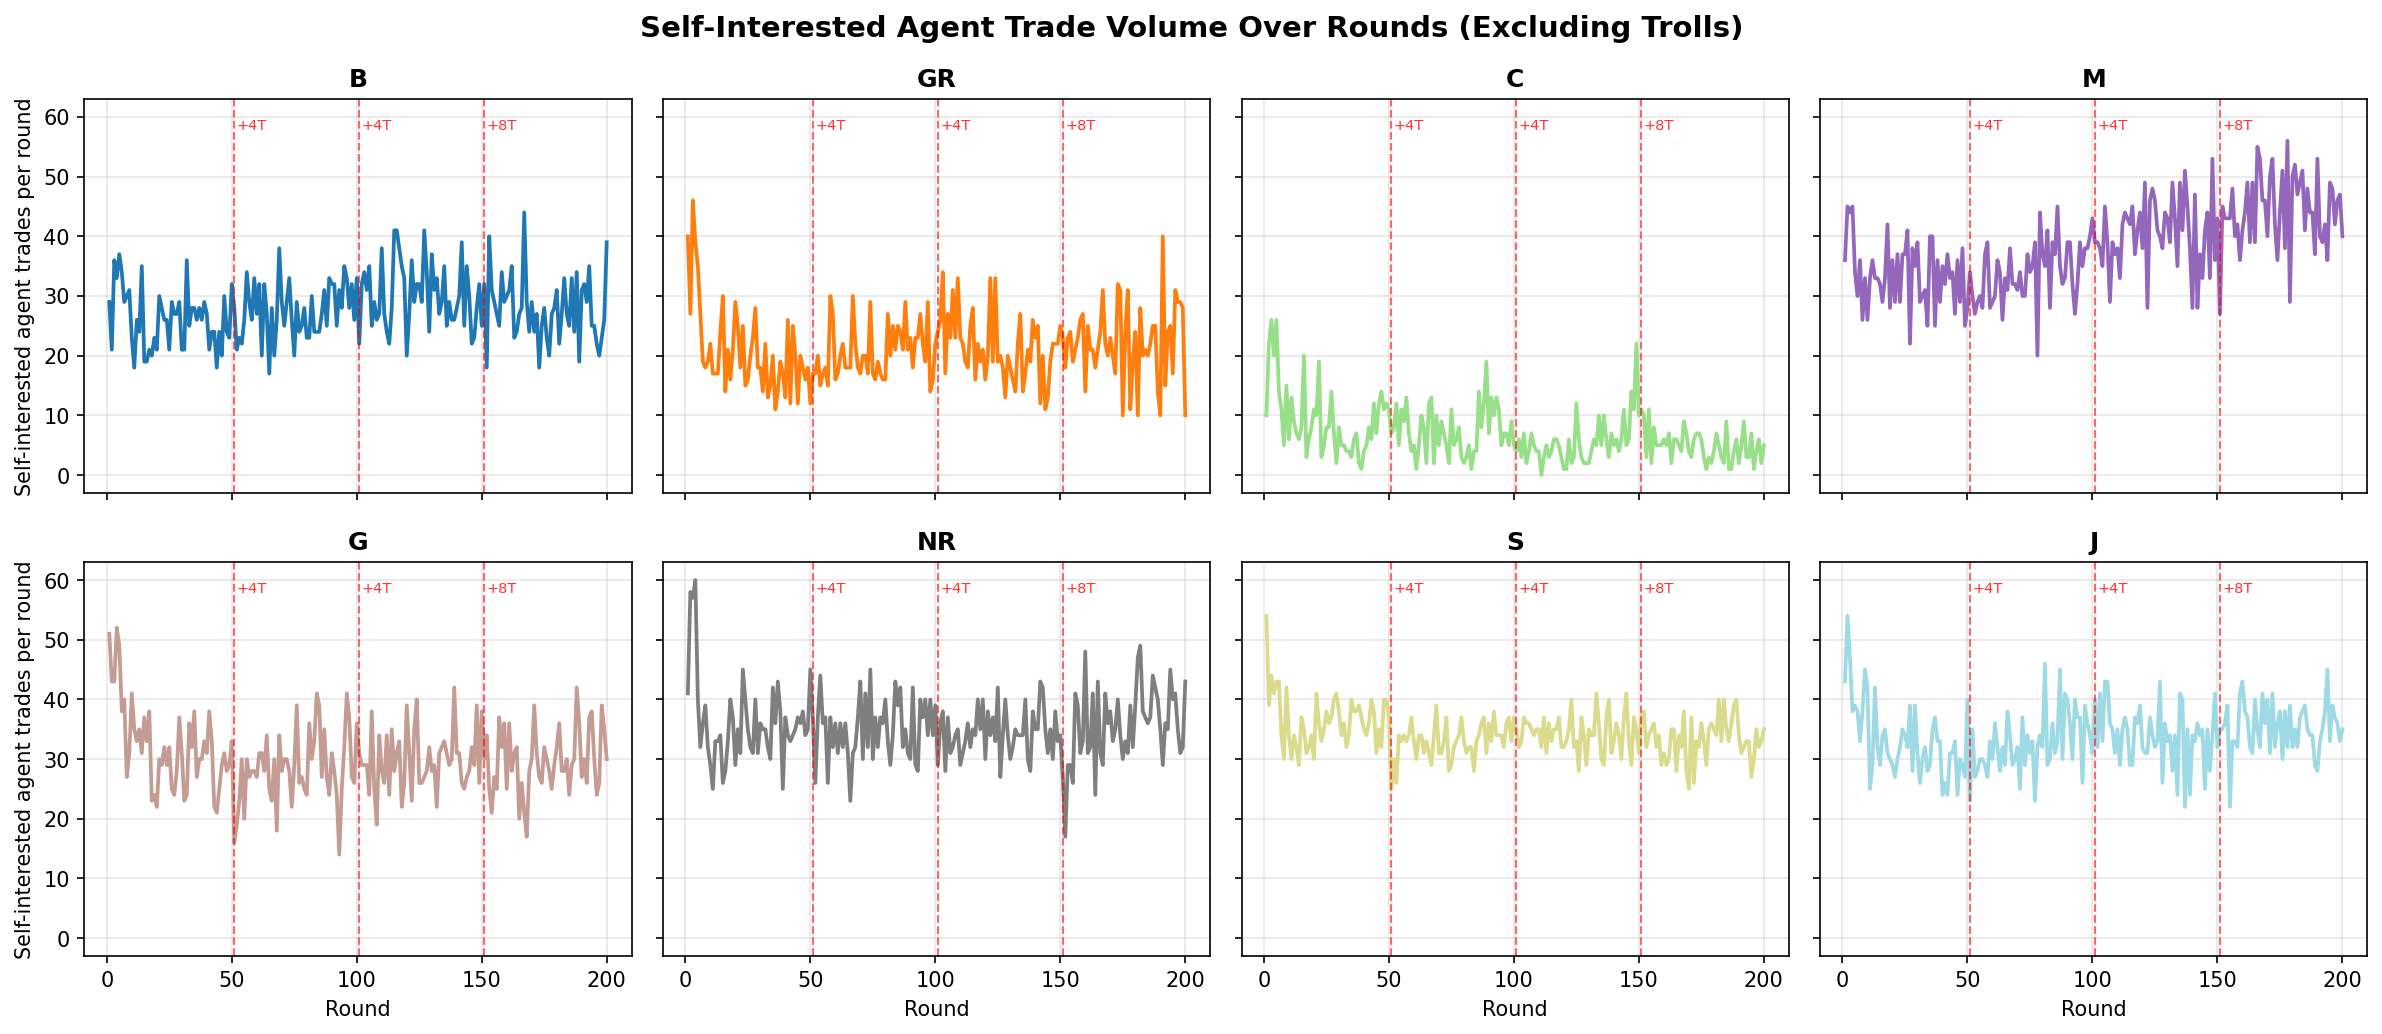
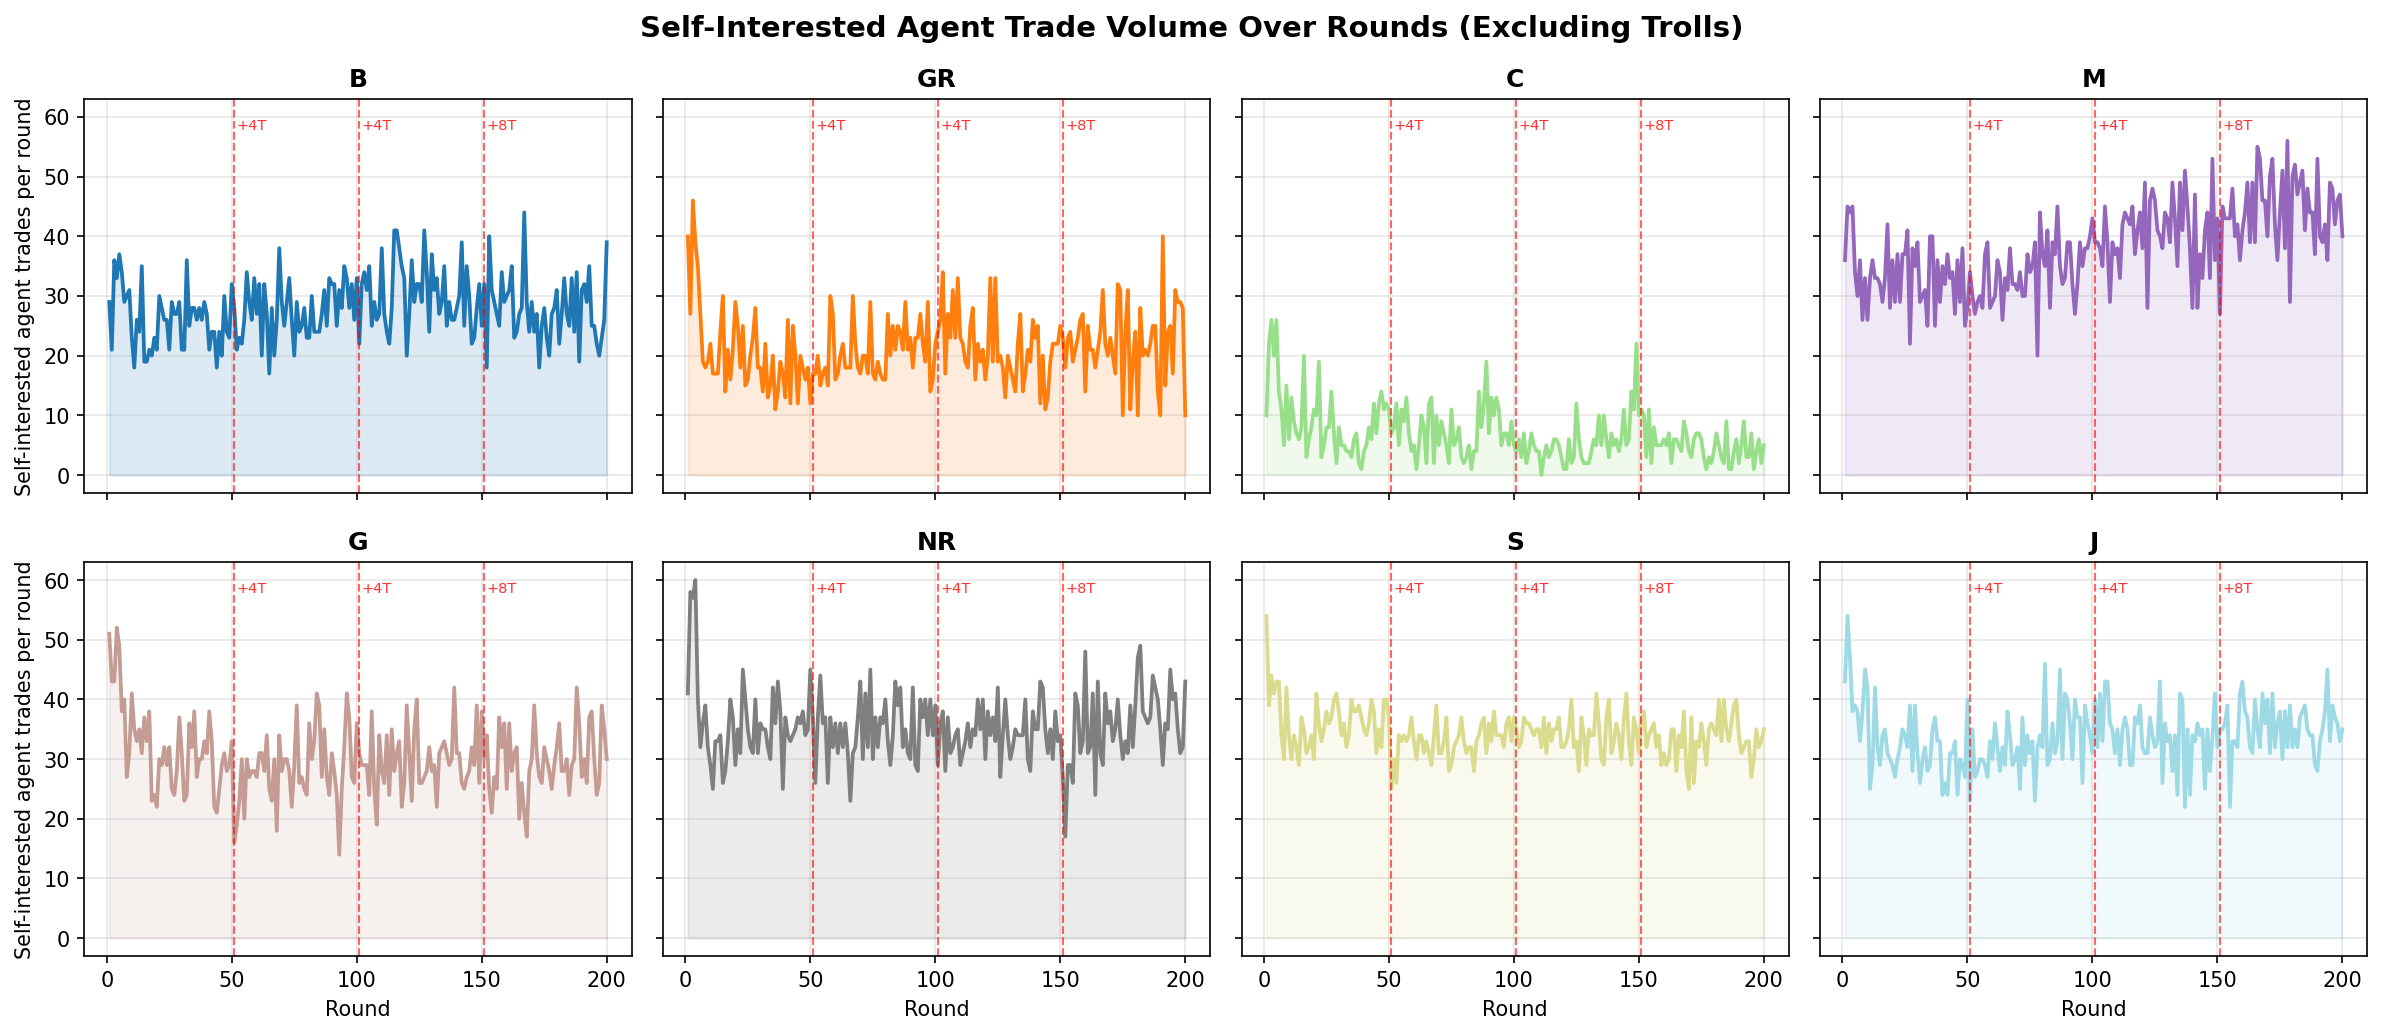
Restore green/red fills on utility plot and color fills on trade volume; keep raw lines removed

Changed region(s): [[0.0311, 0.2785, 0.4971, 0.4642]]

diff --git a/simulation/analysis/plots.py b/simulation/analysis/plots.py
@@ -286,6 +286,7 @@ def plot_trade_volume(save: bool = True) -> None:
             trade_counts, _ = _non_troll_trade_stats(runs)
             rounds = list(range(1, len(trade_counts) + 1))
             ax.plot(rounds, trade_counts, color=COLORS[condition], linewidth=1.8)
+            ax.fill_between(rounds, trade_counts, alpha=0.15, color=COLORS[condition])
 
             schedule = _get_troll_schedule(runs)
             if schedule:
@@ -673,6 +674,10 @@ def plot_utility_trajectories(save: bool = True) -> None:
             rounds = list(range(1, n_rounds + 1))
             ax.plot(rounds, smoothed, color=COLORS[condition], linewidth=2.0, label="3-round avg")
             ax.axhline(0, color="black", linestyle="--", linewidth=0.8, alpha=0.6)
+            ax.fill_between(rounds, smoothed, 0,
+                            where=[v >= 0 for v in smoothed], alpha=0.12, color="green")
+            ax.fill_between(rounds, smoothed, 0,
+                            where=[v < 0 for v in smoothed], alpha=0.12, color="red")
 
             total_util = sum(raw)
             ax.text(0.97, 0.97, f"Total: {total_util:.0f}", transform=ax.transAxes,
@@ -694,7 +699,7 @@ def plot_utility_trajectories(save: bool = True) -> None:
     for ax in axes[:, 0]:
         ax.set_ylabel("Avg utility per agent")
 
-    fig.suptitle("Average Per-Round Utility by Condition (3-round rolling average)",
+    fig.suptitle("Average Per-Round Utility by Condition (3-round rolling average)\nGreen = net positive, Red = net negative",
                  fontsize=13, fontweight="bold")
     plt.tight_layout(rect=[0, 0, 1, 0.93])
     _maybe_save(fig, "utility_trajectories.png", save)
